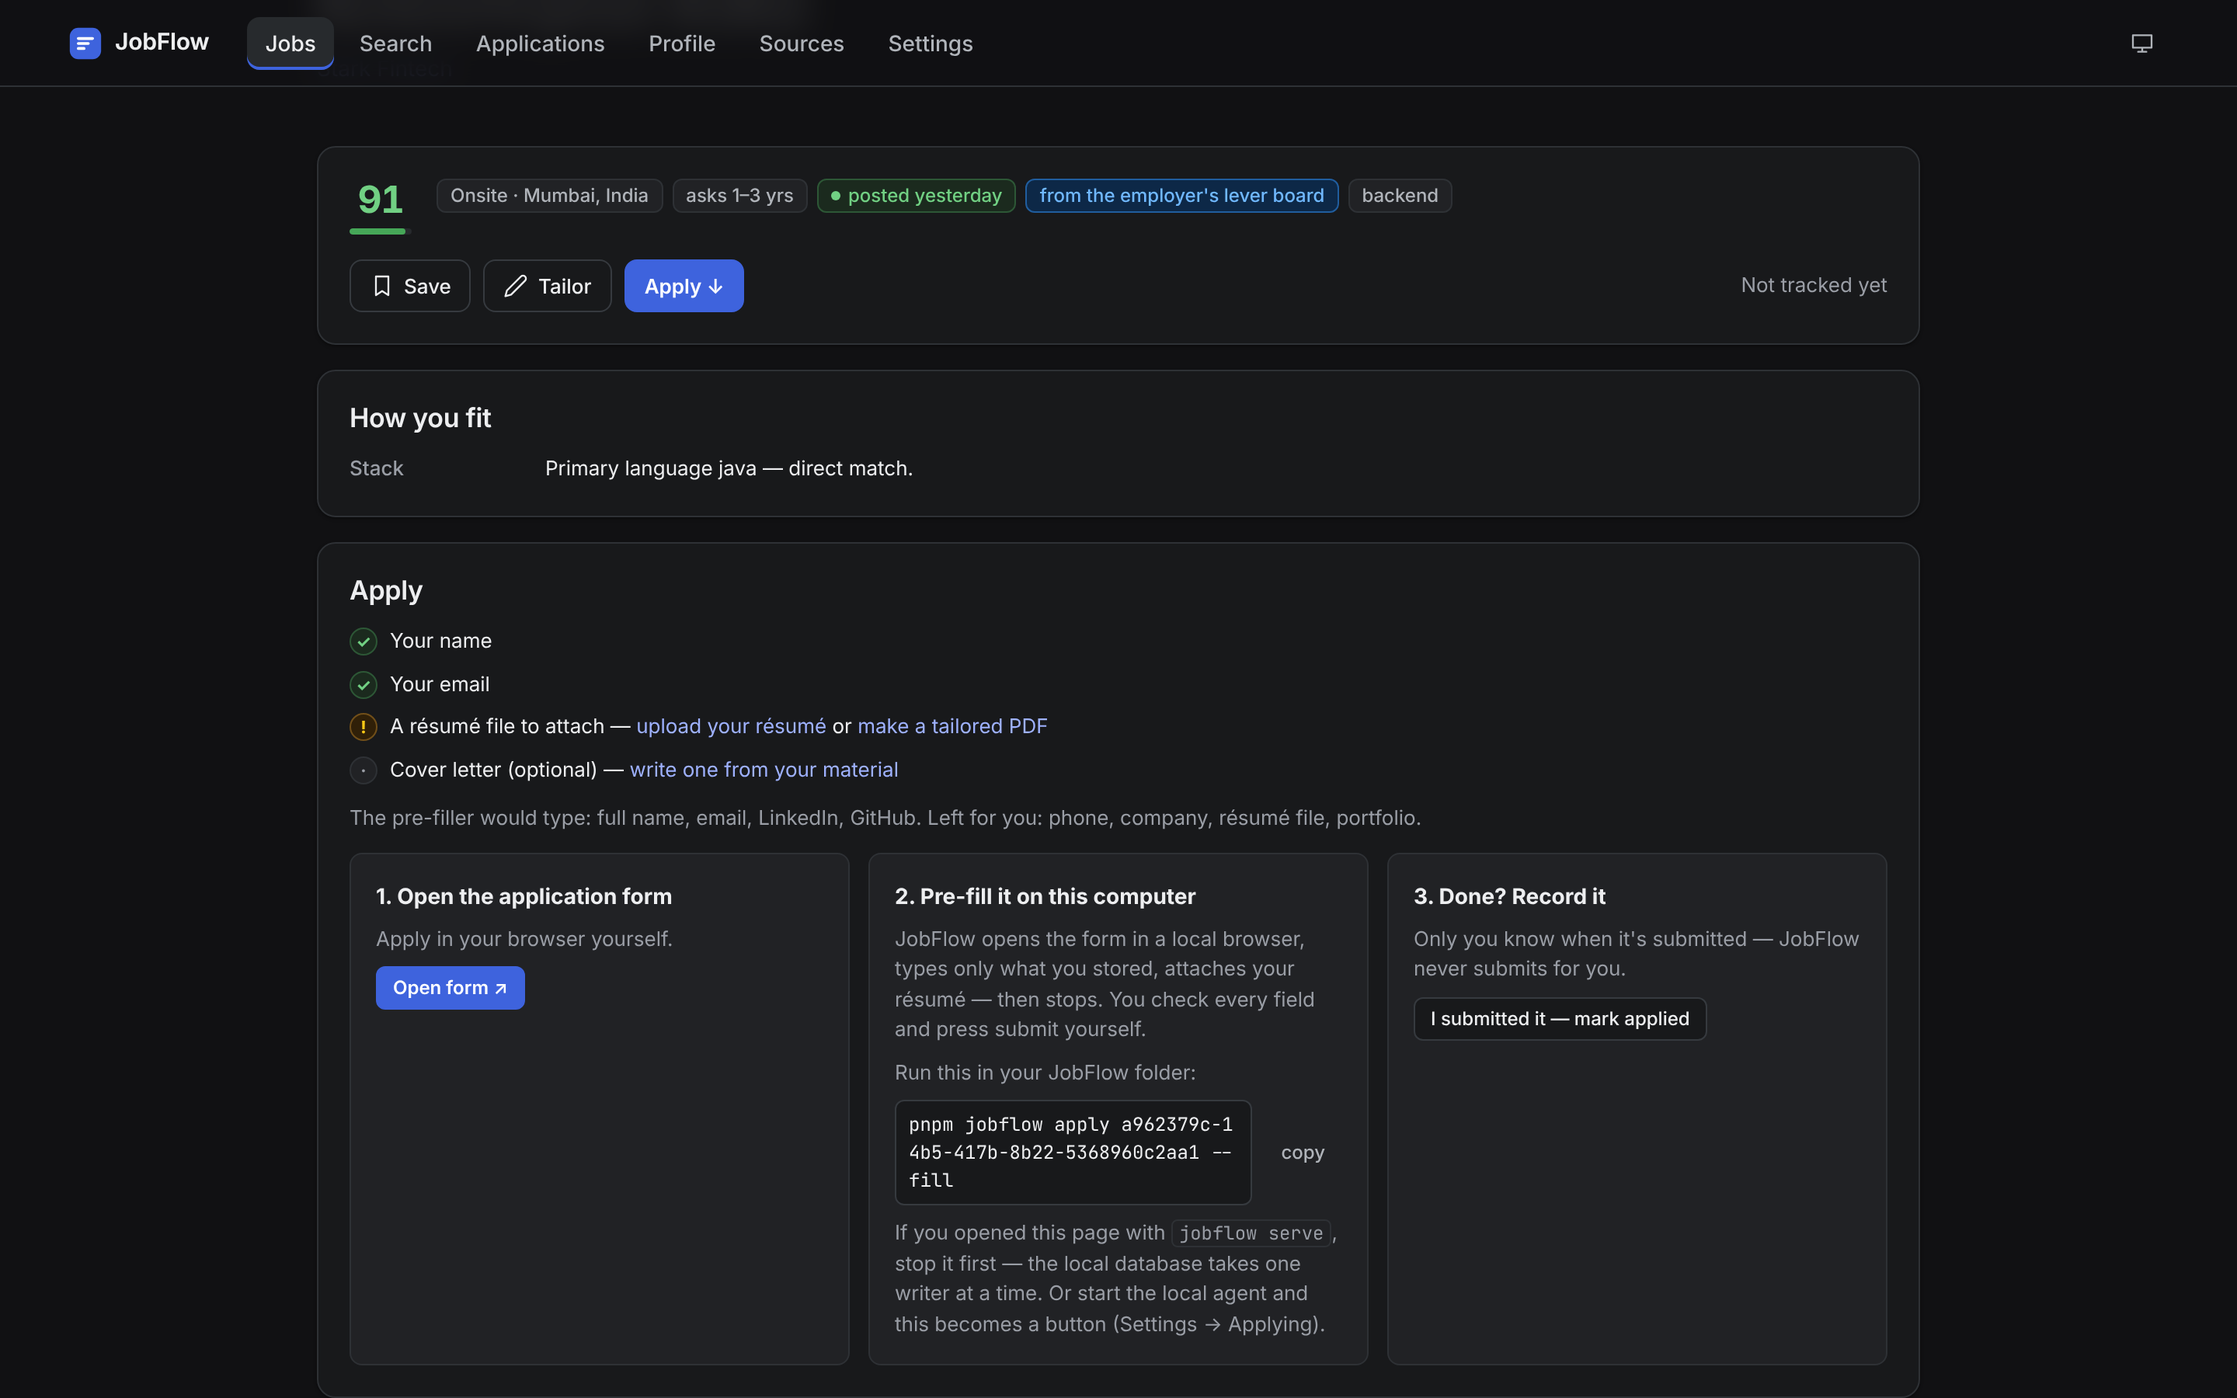
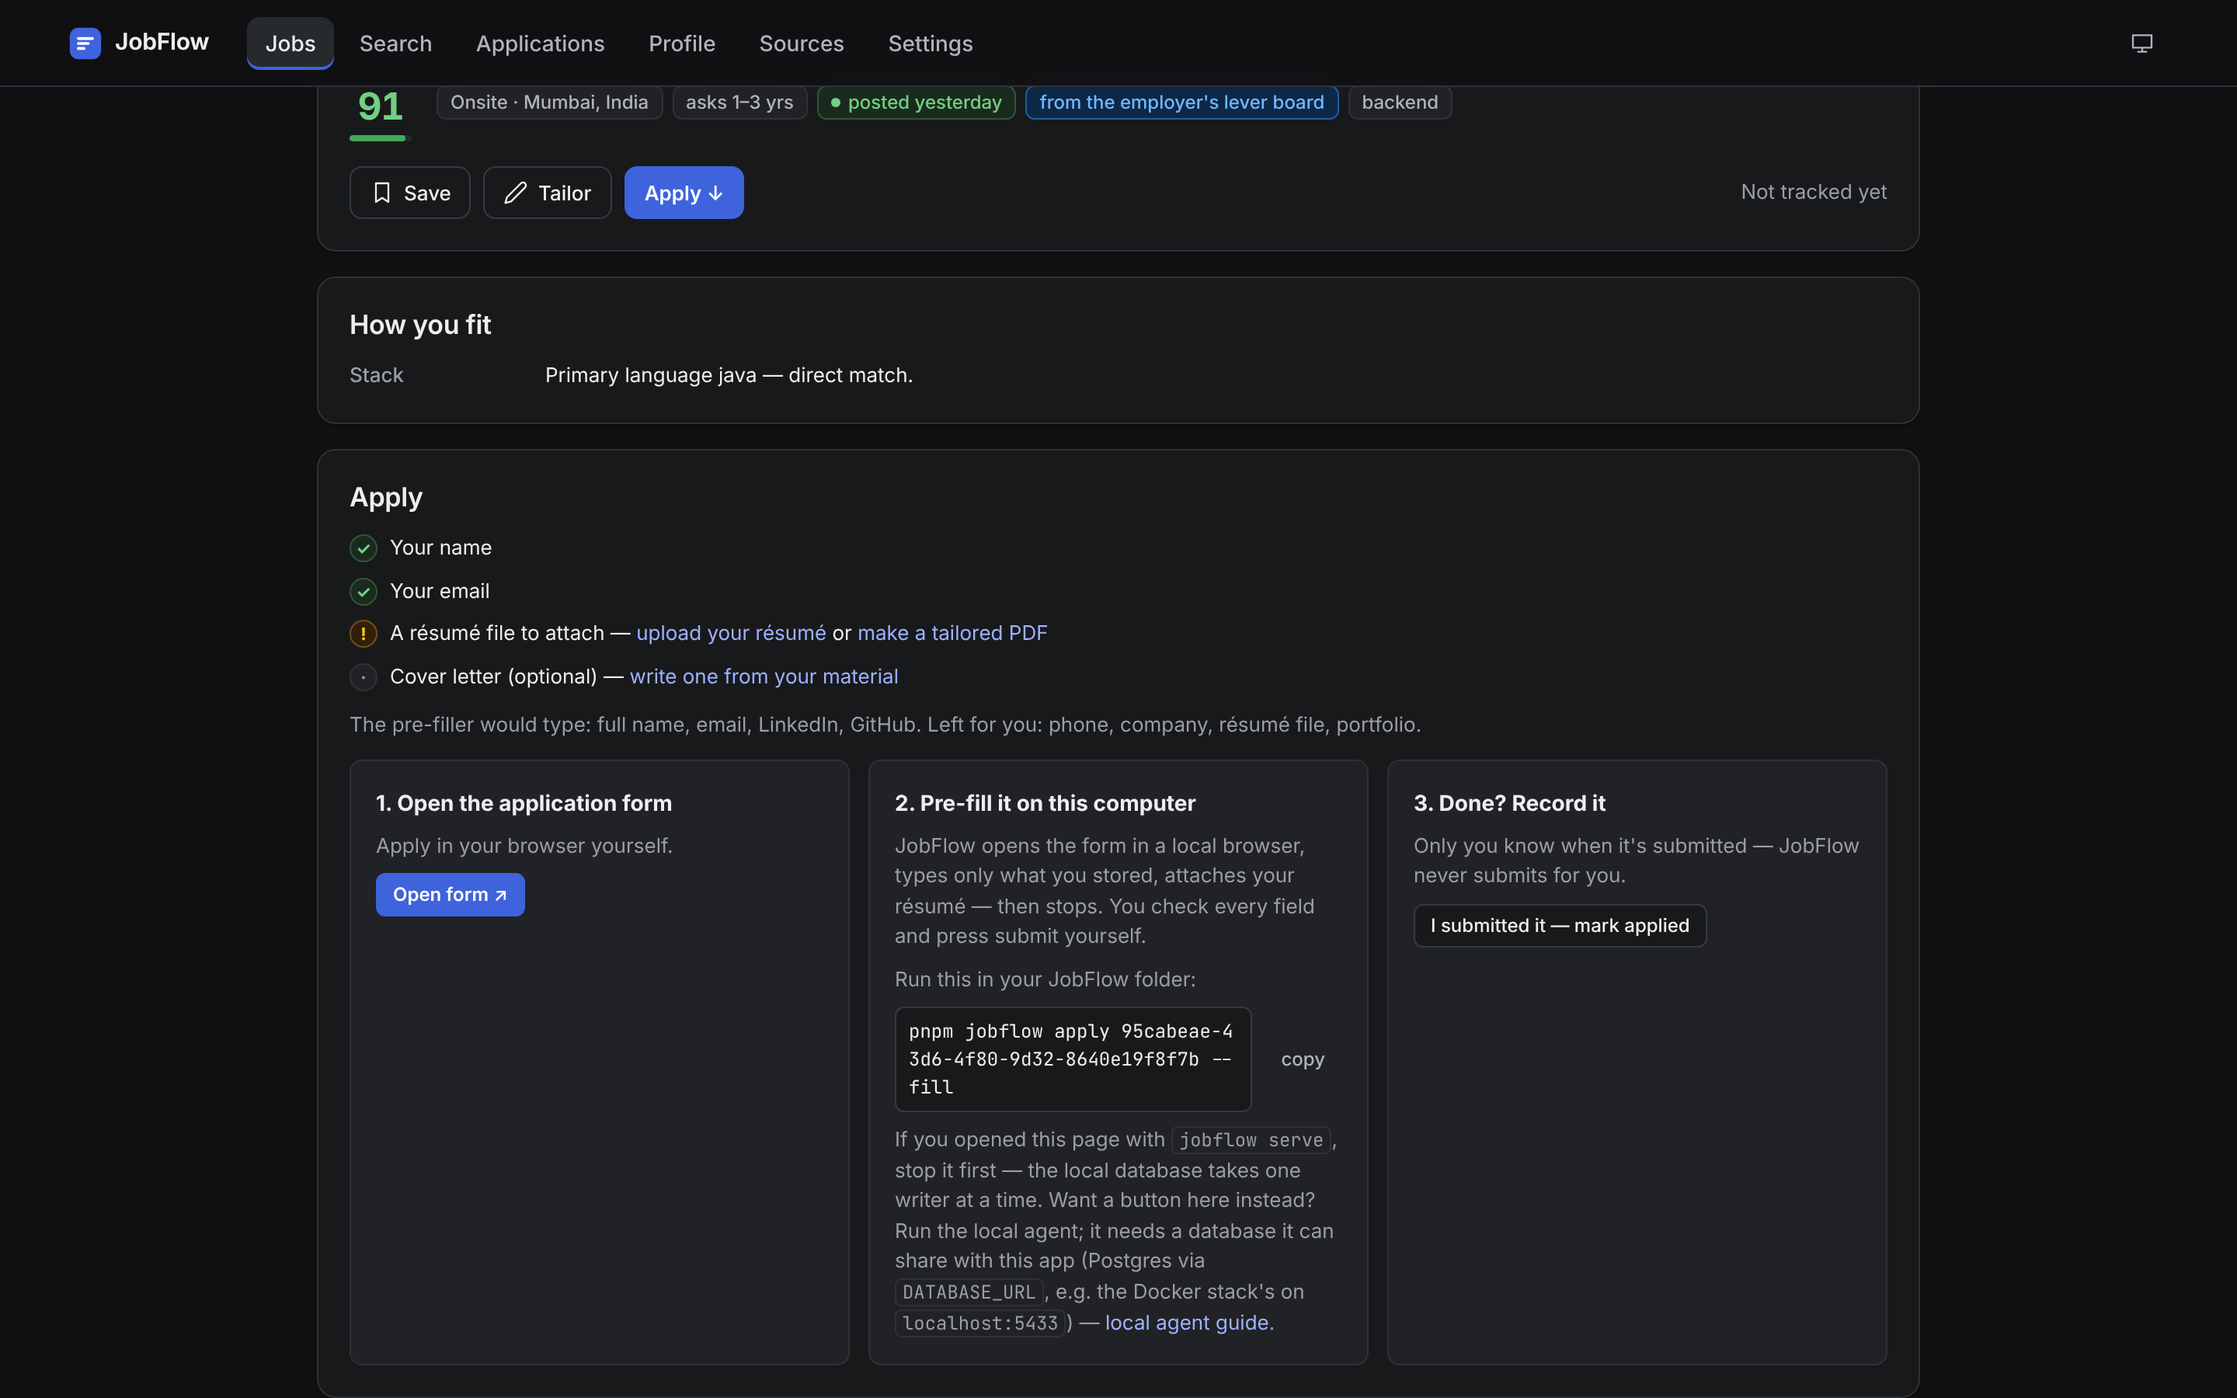
Docs: describe the fixed behaviour; refresh affected screenshots
Claude-Session: https://claude.ai/code/session_01M8jfooPLsHqBs2RVMyX7u3

diff --git a/docs/configuration.md b/docs/configuration.md
@@ -11,7 +11,7 @@ not keep in a file (your LLM key, preferences, sources) are set with `jobflow co
 | Var | Default | What it does |
 |---|---|---|
 | `JOBFLOW_DATA_DIR` | `~/.jobflow` | Where your data lives: the local PGlite database, uploaded résumés, tailored PDFs, the agent's browser profile. Never inside the source tree. |
-| `JOBFLOW_STORE` | `pglite` | `pglite` (durable, zero-setup Postgres-in-WASM under the data dir — the CLI and web app share it; one process writes at a time, so the web app runs the sync schedule itself instead of a separate worker) · `memory` (nothing persists — demos and tests) · `postgres` (use `DATABASE_URL`; needed to run the worker alongside the web app). |
+| `JOBFLOW_STORE` | `pglite` | `pglite` (durable, zero-setup Postgres-in-WASM under the data dir — the CLI and web app share it; one process writes at a time, so the web app runs the sync schedule and the queued maintenance jobs itself instead of a separate worker) · `memory` (nothing persists — demos and tests) · `postgres` (use `DATABASE_URL`; needed to run the worker alongside the web app). |
 | `DATABASE_URL` | _(blank)_ | Your own Postgres. Wins over `JOBFLOW_STORE`. For hosted Postgres append `?sslmode=require`. |
 | `JOBFLOW_SAMPLE_PROFILE` | _(off)_ | `1` starts new profiles as the fictional sample candidate instead of blank. |
 | `JOBFLOW_DEMO_DATA` | _(off)_ | `1` seeds an offline, fully fictional corpus (screenshots, UI work). |
@@ -52,7 +52,7 @@ Grouped by what they unlock. Storage and accounts are covered above.
 | `JOBFLOW_RATE` | `human` | `human` (jittered 0.5–2s) \| `fast`. Keep `human`. |
 | `JOBFLOW_TIER3_SOURCES` | _(empty)_ | Optional env allow-list (csv: `naukri,linkedin,peerlist,wellfound,darwinbox,glassdoor,ambitionbox`). If set, restricts which sources the web can enable. |
 | `JOBFLOW_BROWSER_PROFILE` | `.jobflow/browser-profile` | Path to the Chromium user-data dir the agent drives — point it at a profile **logged into** LinkedIn/Naukri/etc. |
-| `JOBFLOW_CHROMIUM` | _(blank)_ | Path to an installed Chrome/Chromium for `apply --fill` and the local agent, instead of `npx playwright install chromium`. |
+| `JOBFLOW_CHROMIUM` | _(blank)_ | Path to an installed Chrome/Chromium for `apply --fill` and the local agent, instead of `npx playwright install chromium` (the `playwright` package is still needed). `apply --fill` and `doctor` accept it; a path that doesn't exist is reported. |
 | `JOBFLOW_LOCAL_POLL_EVERY_HOURS` | `12` | Unattended schedule: when the last run of an opted-in source is older than this, the agent enqueues it itself (`tier3_poll` for naukri/linkedin/peerlist/wellfound, `local_board_poll` for darwinbox), then drains them one at a time, human-paced. Only while the browser gates are on (both `JOBFLOW_BROWSER=on` and the web master switch), so it's off by default. `0` = off (click-to-run only). |
 
 #### Tier-3 poll targeting — the "good-paying software/engineering in India" sweep
@@ -83,7 +83,7 @@ Some sources sit behind Cloudflare, which turns away anything but a real browser
 ### Polling & discovery (cloud-safe)
 | Var | Default | What it does |
 |---|---|---|
-| `JOBFLOW_POLL_EVERY_HOURS` | `6` | The worker `runner` self-enqueues discover → poll → rank when the last full poll is older than this. `0` disables (use an external cron instead). A local/Docker DB has no other scheduler — the GitHub cron can't reach it. |
+| `JOBFLOW_POLL_EVERY_HOURS` | `6` | The worker `runner` self-enqueues discover → poll → rank when the last full poll is older than this. `0` disables (use an external cron instead). A local/Docker DB has no other scheduler — the GitHub cron can't reach it. On the default local store, `jobflow serve` runs the same schedule itself. |
 | `JOBFLOW_POLL_COUNTRY` | `IN` | ISO country the big-employer boards (Workday, Eightfold, SmartRecruiters, Amazon) are polled for — they filter server-side and otherwise return thousands of global roles. Shapes what is polled; ranking still scores location. |
 | `JOBFLOW_TELEGRAM_CHANNELS` | `gocareers,techuprise_updates,dot_aware` | csv of public Telegram channels to harvest each poll (set it empty to turn harvesting off). Links to company ATS/careers pages become registered boards; the posting itself is always fetched from the board. Scam-pattern posts and posts older than 30 days are skipped; course-funnel / blog / shortener links are dropped. The defaults won a 2026-09 review of ~100 Indian job channels (54–72% direct company links, 1–4 YoE focus, no scams). Optional extras: `jobsinternshipswale` (small, unique), `itreferral_jobs` (LinkedIn-heavy), `remote_devops_jobs` (DevOps/SRE). The big "freshers" channels route 90%+ of links through ad-funded blogs and are skipped. One-off: `pnpm --filter @jobflow/cli harvest --telegram a,b` or `--whatsapp ./export.txt` (a WhatsApp "Export chat" file — never automated). |
 

diff --git a/docs/guides/troubleshooting.md b/docs/guides/troubleshooting.md
@@ -58,8 +58,10 @@ What to do:
 - **Nothing is running** (a crash or a killed terminal left the lock behind). The message then
   ends with "If no jobflow process is running, delete the stale .lock file in the data dir":
   delete `~/.jobflow/.lock` (or `$JOBFLOW_DATA_DIR/.lock`).
-- **You want several processes at once**, for example the web app and the worker. Use Postgres
-  instead of PGlite: set `DATABASE_URL` (or use Docker, below).
+- **You want several processes at once**, for example the web app and the
+  [local agent](local-agent.md). Use Postgres instead of PGlite: set `DATABASE_URL` (or use
+  Docker, below). You don't need a separate worker for the web app's maintenance buttons: on
+  the local store, `jobflow serve` runs those jobs itself.
 
 ## A sync finished but there are no jobs
 
@@ -154,14 +156,16 @@ Nothing is saved until you confirm the review. See [Your résumé & profile](res
 | "Form filling is off." | `pnpm jobflow config set automation.fill on` (once). It only ever fills; you always submit. |
 | "Form filling is switched off by JOBFLOW_BROWSER=off." | An explicit `JOBFLOW_BROWSER=off` in your environment or `.env` always wins. Remove it. |
 | "--fill needs Playwright, which isn't installed." | `pnpm add -w playwright && npx playwright install chromium` |
-| "Playwright is installed but its Chromium isn't." | `npx playwright install chromium` |
+| "Playwright is installed but its Chromium isn't." | `npx playwright install chromium`, or set `JOBFLOW_CHROMIUM` to a Chrome/Chromium you already have (below) |
+| "JOBFLOW_CHROMIUM is set to …, which doesn't exist." | Point it at your browser binary (for example `/usr/bin/google-chrome`, or `/Applications/Google Chrome.app/Contents/MacOS/Google Chrome` on macOS), or unset it |
 | "No contact email in your profile — the form needs one." | `pnpm jobflow profile set email you@example.com` |
 | "resumeFormat → forms want a PDF/Word file, not your .md/.tex/.txt source" (under "Fix before filling" in the dry run) | Make a PDF: `pnpm jobflow tailor <ref> --kind resume-md --pdf`, or point at one with `pnpm jobflow profile set resume-path ./resume.pdf` |
 | "Couldn't start the browser: …" | `--fill` opens a visible browser window, so it needs a desktop session (not a headless SSH box). Use `jobflow apply <ref> --open` instead. |
 
 `JOBFLOW_CHROMIUM=/path/to/chrome` makes the form-filler and the local agent use a Chrome or
-Chromium you already have. In this release, though, the CLI's check (and `doctor`) still looks
-for Playwright's own Chromium, so run `npx playwright install chromium` as well.
+Chromium you already have, so you can skip `npx playwright install chromium` (the Playwright
+package itself is still needed). `pnpm jobflow doctor` then shows
+`playwright  v… + /path/to/chrome (JOBFLOW_CHROMIUM)`.
 
 Filling uses a persistent browser profile at `~/.jobflow/browser-profile`, so site logins
 survive between runs. Use `--browser-profile <dir>` or `JOBFLOW_BROWSER_PROFILE` to pick
@@ -218,7 +222,7 @@ stack. The data lives in the `jobflow-db` and `jobflow-data` volumes;
 |---|---|
 | CLI | Errors and hints go to stderr, results to stdout. `JOBFLOW_DEBUG=1 pnpm jobflow …` adds the stack trace to an error. |
 | Web app (`jobflow serve`) | The terminal you started it from |
-| Background jobs (sync, recheck, re-rank…) | Sources → Sync → **Maintenance and background jobs**: the activity list shows each job's state and result |
+| Background jobs (sync, recheck, re-rank…) | Sources → Sync → **Maintenance and background jobs**: the activity list shows each job's state and result. On the local store, `jobflow serve` runs them and logs a `[jobflow] job ✓ …` / `✗ …` line per job in its terminal |
 | A source that failed | Sources → Your own sources (last run per source); `jobflow sync` prints the first errors |
 | Docker | `pnpm docker:logs` (web and worker; `docker compose logs db` for Postgres) |
 | Local agent | The terminal running `pnpm agent` |

diff --git a/docs/guides/web-app-tour.md b/docs/guides/web-app-tour.md
@@ -107,7 +107,7 @@ Filters are **views**:
 - The page always says what they hid: "**1** hidden by your filters (remote region 1)", with
   **clear filters**.
 
-A saved-search tab adds its own line: "Through your saved search **Remote backend**: it hides
+A saved-search tab adds its own line: "Through your saved search **Remote backend** — it hides
 6 (remote 6). Scores are unchanged." If filters hide everything, the empty state says so
 and offers to clear them.
 
@@ -164,8 +164,10 @@ Then you have three options:
 1. **Open the application form**: apply in your browser yourself.
 2. **Pre-fill it on this computer**: the exact `pnpm jobflow apply <id> --fill` command, with
    a copy button. Stop `jobflow serve` first, because the database takes one writer at a time.
-   If the [local agent](local-agent.md) is
-   running, this becomes a **Pre-fill with the local agent** button.
+   If the [local agent](local-agent.md) is running, this becomes a **Pre-fill with the local
+   agent** button. The agent needs a database it can share with the web app (Postgres via
+   `DATABASE_URL`, such as the Docker stack's on `localhost:5433`), so it isn't available on the
+   default local store.
 3. **Done? Record it**: **I submitted it — mark applied**. Then you can add a next step and a
    follow-up date.
 
@@ -278,9 +280,11 @@ Where JobFlow looks:
   - the background job queue (Discover, Poll all, Re-rank, Enrich comp, Recheck all);
   - the local agent's status.
 
-  The maintenance buttons queue jobs for the worker, which runs in the Docker / Postgres
-  setup. With the default local store and only `jobflow serve` running, those jobs wait in the
-  queue. **Sync now** always runs in place.
+  The maintenance buttons queue background jobs, and the activity list shows each one go from
+  queued to done (or the error). On the default local store, `jobflow serve` runs them itself,
+  one at a time. With Docker / Postgres the worker runs them. Local-agent jobs (pre-fill,
+  logged-in sites) wait in the same list until the [local agent](local-agent.md) is online;
+  the web server never runs them.
 - **All companies** (top right) opens `/companies`, every company JobFlow polls. You can add one
   by name or careers URL, and each row has its ATS board, posting count, cadence, and
   **poll** / **pause** / remove.
@@ -298,11 +302,14 @@ See [Search & discovery](search-and-discovery.md).
 - **Applying & the local agent**:
   - how to pre-fill from the terminal (`jobflow config set automation.fill on`, then
     `jobflow apply <job> --fill`);
+  - how to get a **Pre-fill** button instead: run the [local agent](local-agent.md), which
+    needs a database it can share with the web app (Postgres via `DATABASE_URL`);
   - the **let the local agent open a browser for me** switch;
   - **Logged-in job sites** (advanced, off by default).
 - **Data**: where your data lives (`~/.jobflow`), and **clear cached drafts**.
-- **API tokens**: only for the browser extension, the local agent, or a CLI talking to a
-  JobFlow server.
+- **API tokens**: only needed when the server has sign-in on (a hosted instance): for the
+  browser extension (paste it into its options page), the local agent
+  (`JOBFLOW_AGENT_TOKEN`), or a script calling the server's API.
 
 ## Onboarding
 

diff --git a/docs/guides/search-and-discovery.md b/docs/guides/search-and-discovery.md
@@ -61,8 +61,10 @@ pnpm jobflow feed --search remote-backend       # your feed, through that search
 pnpm jobflow searches rm remote-backend
 ```
 
-Pass the flags as separate arguments, not inside the quoted query: in this release,
-`searches add name '"backend engineer" --remote --posted 7d'` (all one string) is misparsed.
+The query can also be one quoted string with the flags inside it:
+`searches add remote-backend '"backend engineer" --remote --posted 7d'` saves the same search
+as the separate-argument form above. Only the search flags work inside the string; put
+options such as `--no-source` outside it.
 
 A saved search runs on each `jobflow sync` (daily by default) and its results join your
 feed. With `--no-source` it fetches nothing and only works as a view over your feed. In the

diff --git a/docs/guides/self-hosting.md b/docs/guides/self-hosting.md
@@ -17,7 +17,9 @@ hosted service).
   app's own origin.
 - **API tokens** — Settings → API tokens mints scoped, revocable tokens (`cli`, `extension`,
   `agent`), shown once and stored as hashes. (A token is only needed for the browser
-  extension, the local agent, or a CLI talking to the server.)
+  extension, the local agent, or a script calling the HTTP API with
+  `Authorization: Bearer <token>`. The `cli` scope, labelled "scripts / API" in Settings, is
+  for that. The `jobflow` CLI itself works on its own local store and needs no token.)
 - **Admin-only** — instance-wide jobs (discover, full polls, purges) and registry edits.
 - **LLM keys** — users bring their own; the operator's env key is used for them only with
   `JOBFLOW_OPERATOR_LLM=shared`.

diff --git a/docs/guides/daily-workflow.md b/docs/guides/daily-workflow.md
@@ -134,7 +134,8 @@ are how you watch a niche without repeating yourself.
 | `pnpm jobflow feed --search remote-backend`: your feed through it, with hidden counts | The search's tab on Jobs (`/?view=<id>`) |
 | `pnpm jobflow searches run remote-backend` · `searches rm remote-backend` | **run now** in Search → Saved searches |
 
-Pass flags as separate arguments, as above, rather than inside one quoted string. See
+Flags can go after the query, as above, or inside one quoted string
+(`'"backend engineer" --remote --posted 7d'`); both save the same search. See
 [Search & discovery](search-and-discovery.md#saved-searches).
 
 ## How freshness works in practice

diff --git a/README.md b/README.md
@@ -137,7 +137,8 @@ and invent experience. JobFlow does the opposite:
   applying twice.
 - **Optional extras**: an LLM (Anthropic, OpenAI, xAI or an OpenAI-compatible gateway) for
   richer write-ups and prose; a browser extension with an inline match panel; a local agent
-  for logged-in sites in your own browser; Docker; and a multi-user hosting mode.
+  for logged-in sites and one-click pre-fill in your own browser (it shares a Postgres
+  database with the web app, such as Docker's); Docker; and a multi-user hosting mode.
 
 ## How it works
 
